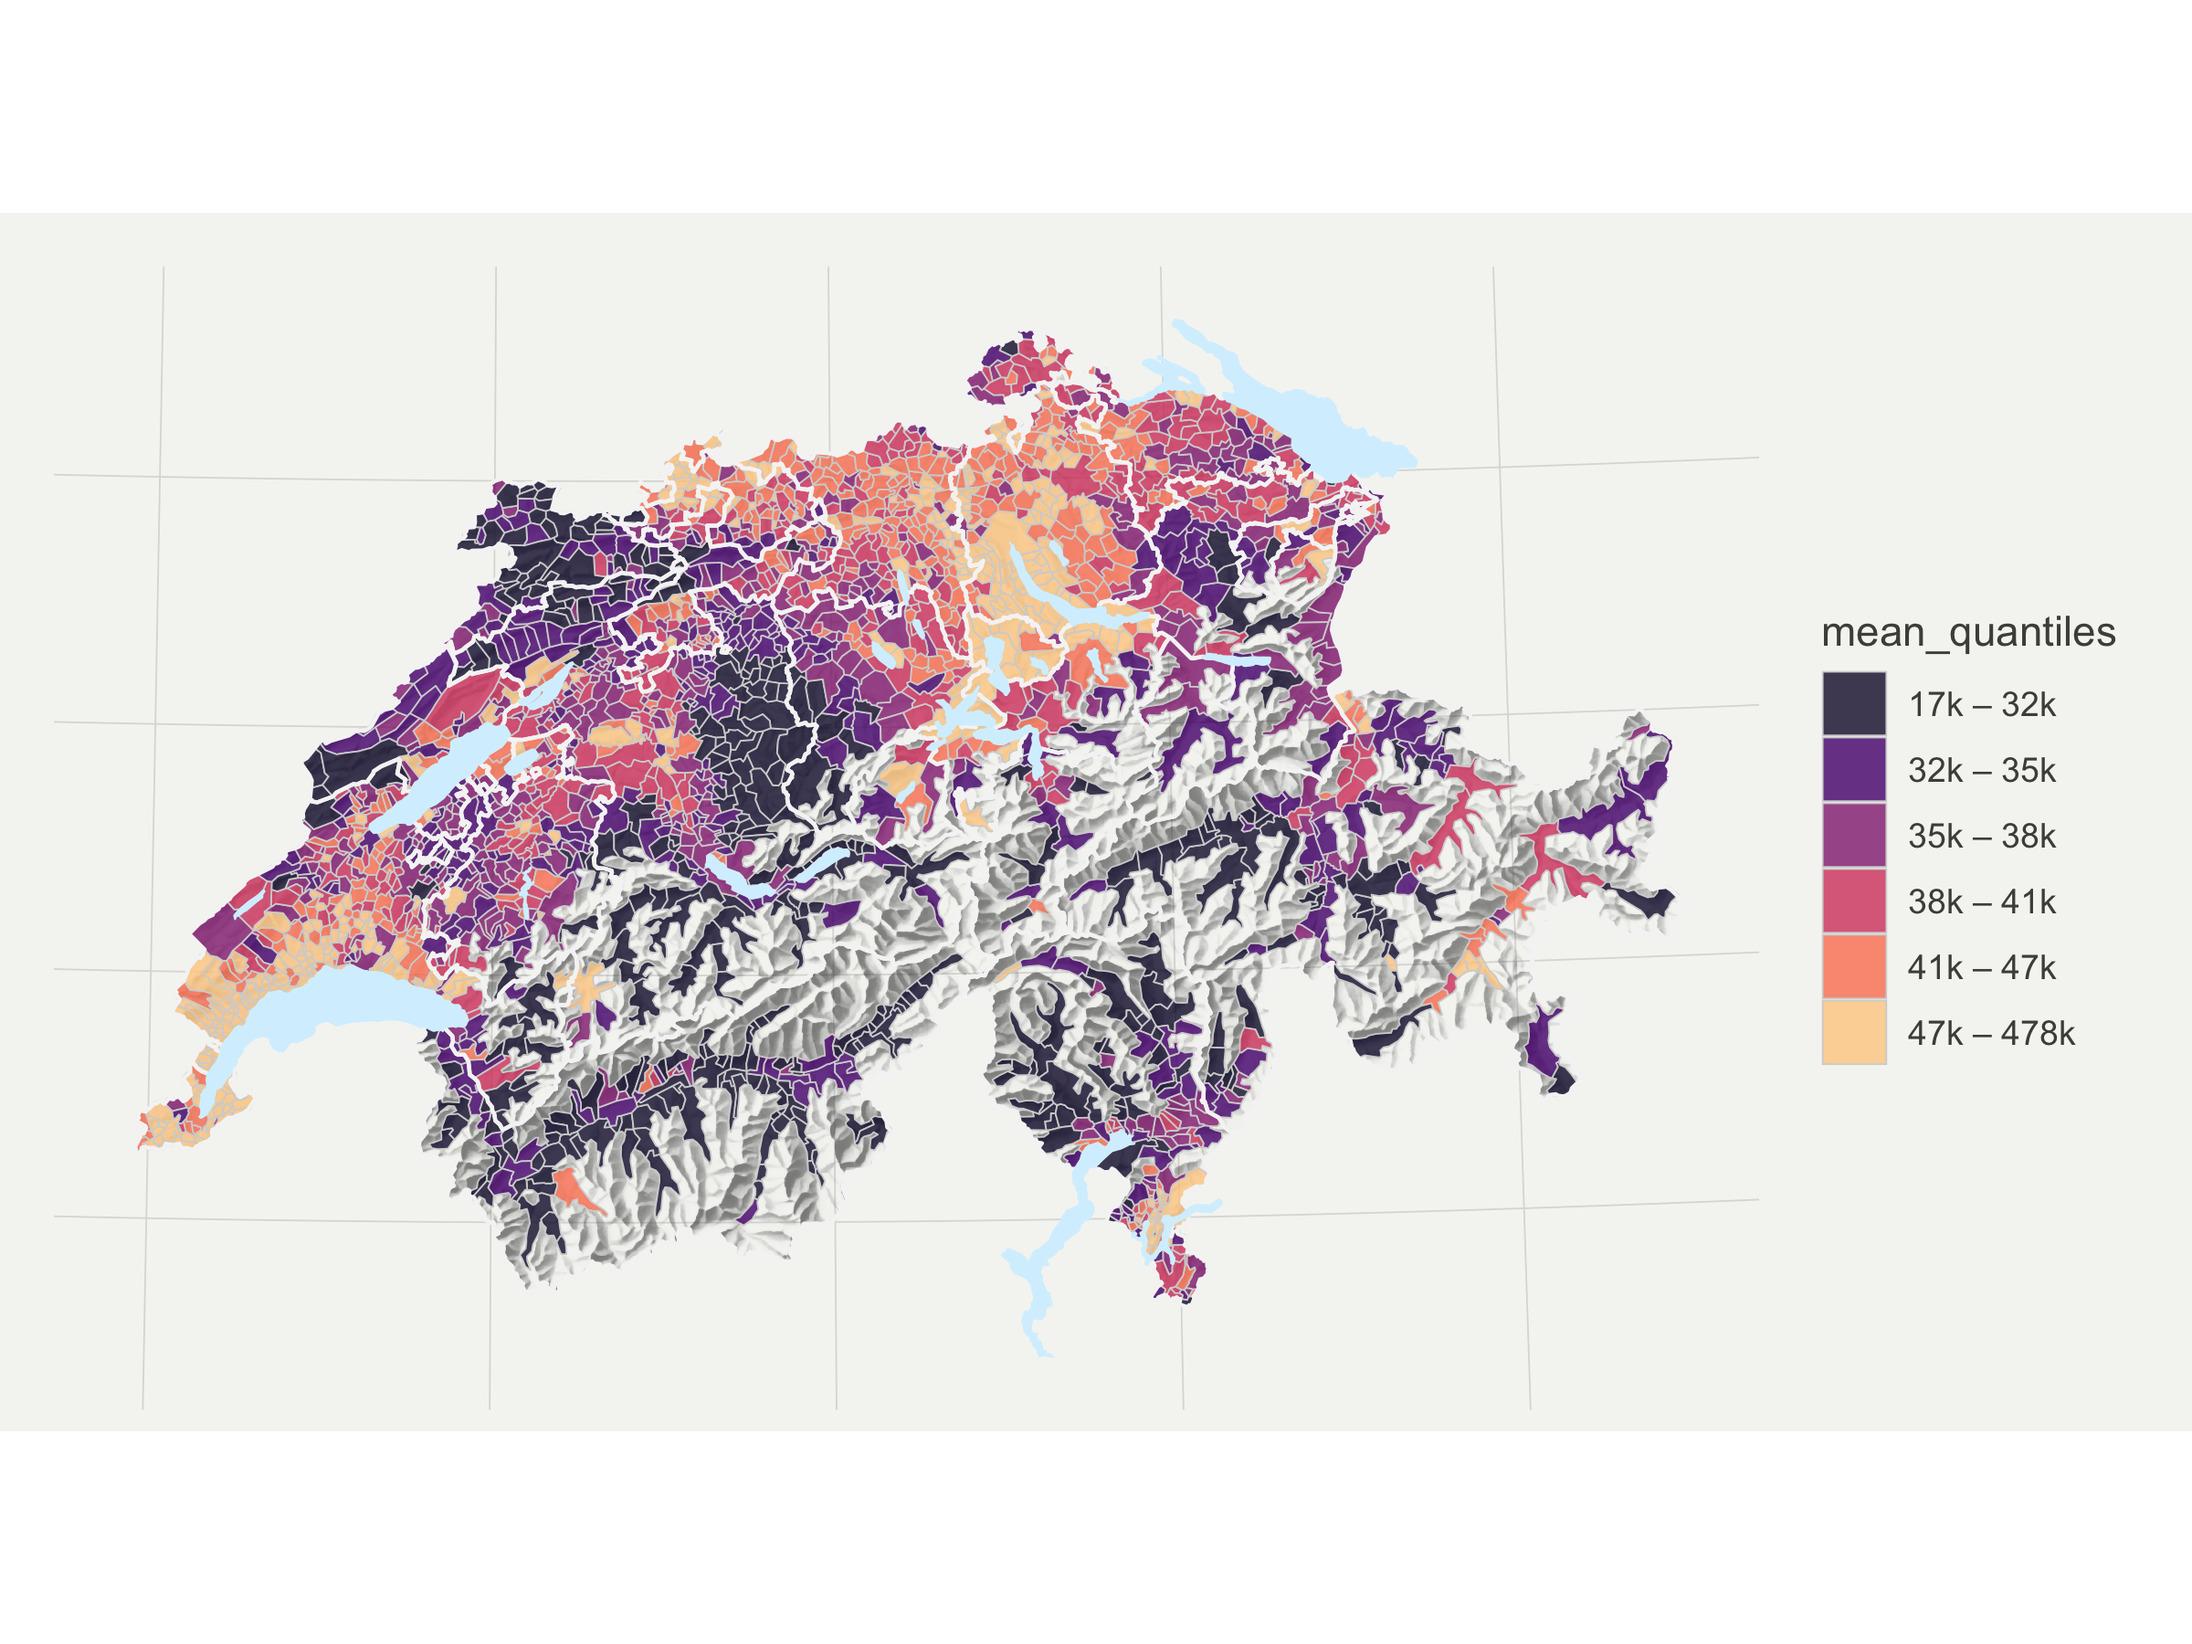
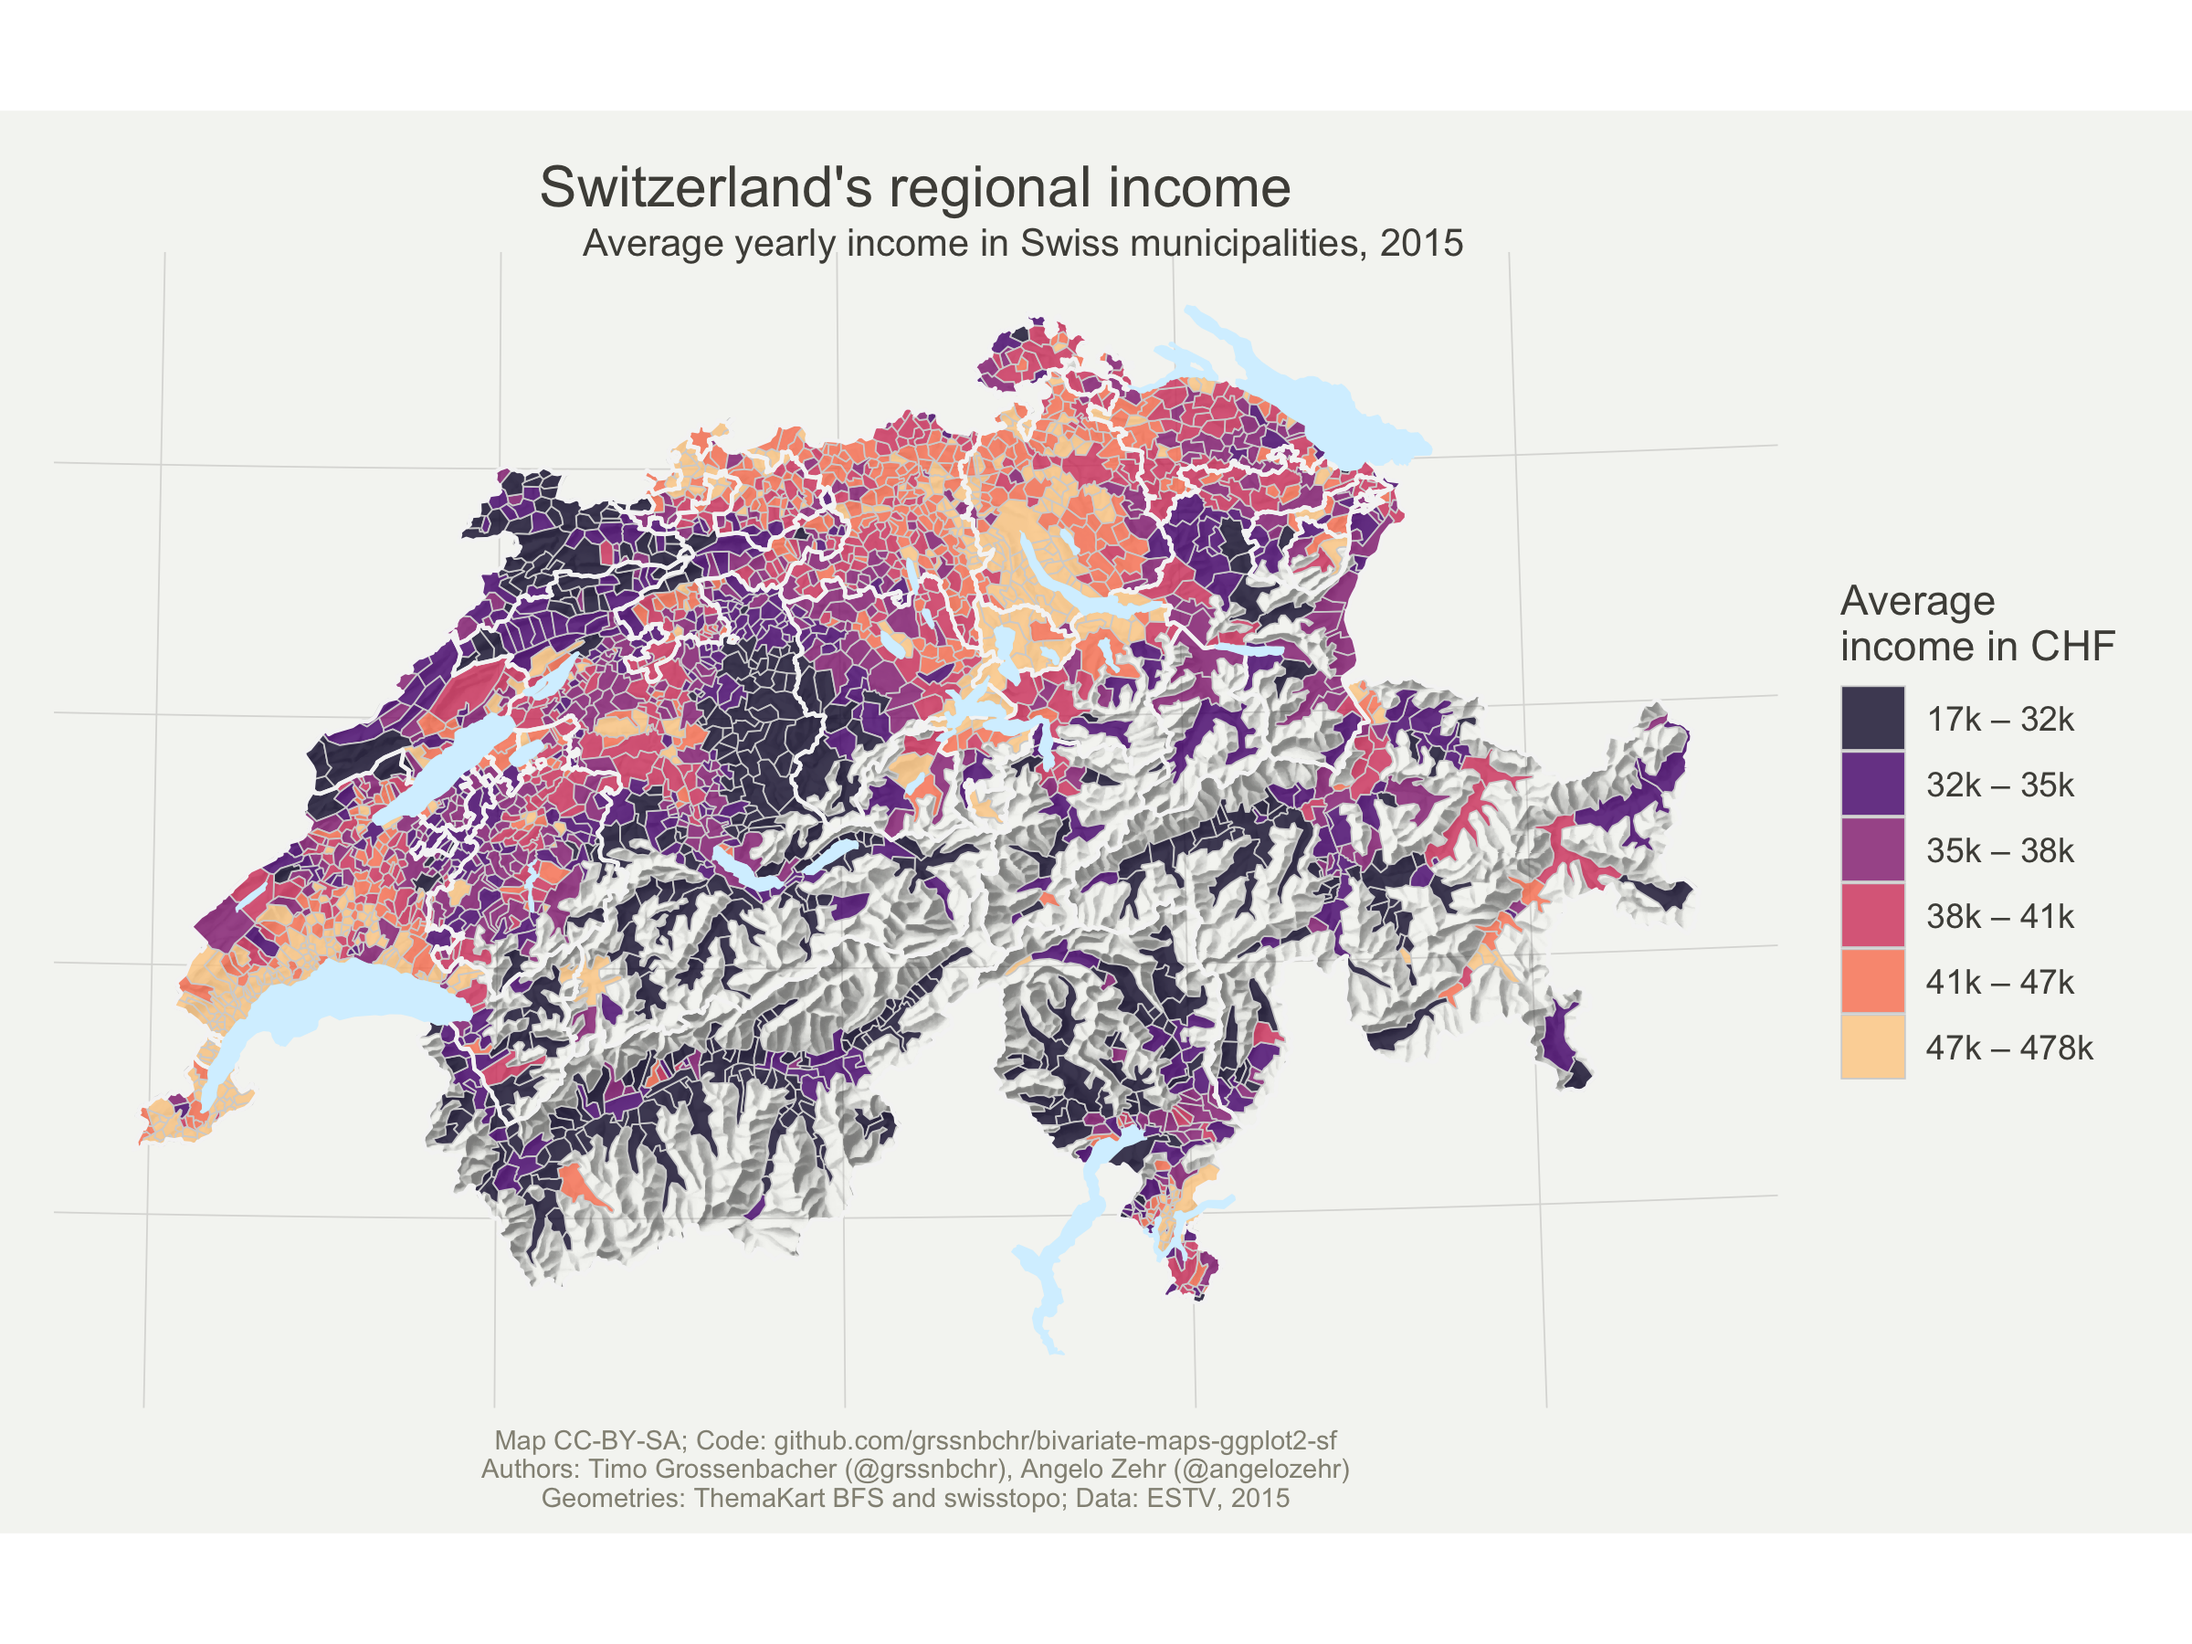
working on the prose

diff --git a/README.md b/README.md
@@ -1,5 +1,6 @@
 
 - [ggswitzerland](#ggswitzerland)
+- [Let’s go! Building {ggswitzerland}](#lets-go-building-ggswitzerland)
   - [`theme_map()`](#theme_map)
   - [data prep](#data-prep)
     - [we need to include it in the
@@ -8,9 +9,12 @@
   - [`geom_*()` and `stamp_*()` functions using
     `ggregions::write_*(ref_data = ?)`](#geom_-and-stamp_-functions-using-ggregionswrite_ref_data--)
 - [packaging](#packaging)
-- [Use ggswitzerland! A replication of Timo’s
-  work](#use-ggswitzerland-a-replication-of-timos-work)
-  - [A little more styling](#a-little-more-styling)
+- [Use ggswitzerland! A replication of Timo and Angelo’s
+  work](#use-ggswitzerland-a-replication-of-timo-and-angelos-work)
+  - [Data preparation (binning)](#data-preparation-binning)
+  - [Basic Vizzing](#basic-vizzing)
+  - [A little more styling and
+    labels.](#a-little-more-styling-and-labels)
 - [Bonus: {ggswitzerland} X
   {ggincerta}](#bonus-ggswitzerland-x-ggincerta)
 
@@ -18,34 +22,51 @@
 
 # ggswitzerland
 
-Is inspired and uses much of the code in ‘[Bivariate maps with ggplot2
-and
-sf](https://timogrossenbacher.ch/bivariate-maps-with-ggplot2-and-sf/)’
-with the source available in the
+What follows is inspired and uses much of the code in Timo Grossenbacher
+and Angelo Zehr’s ‘[Bivariate maps with ggplot2 and
+sf](https://timogrossenbacher.ch/bivariate-maps-with-ggplot2-and-sf/)’.
+The source for the blog post is available in the
 [repo](https://github.com/grssnbchr/bivariate-maps-ggplot2-sf?tab=readme-ov-file).
 
-The main goal is to be able to more succinctly create the following
-plot, using new layers (`geom_*()` and `stamp_*()` functions) that are
-defined in {ggswitzerland}. An original plot (not bivariate) from the
-blogpost:
+One of the plots, which is not actually a bivariate color plot so
+central to the post, is the target for a replication, and will informs
+what a minimal ggswitzerland might need in terms of functionality.
 
 ![](https://timogrossenbacher.ch/content/images/size/w1000/2023/07/bm-thematic-univariate-map-1.png)
-The novel functionality in {ggswitzerland} is `geom_muni()` which can be
-used to create a map from flat data (no boundary information). Creating
-functions like `geom_muni()` can be done easily using the {ggregions}
-package.
+
+{ggswitzerland}‘s `geom_*()`, `stamp_*()`, and `theme_*()` functions
+will allow us to *not only* ’write down’ this plot in more succinctly,
+but arguably also in a way that better matches how we think about how to
+construct the map.
+
+Specifically, we can use data that has geographic information, *but no
+boundary information*, to construct our plot. If we have a dataset with
+municipality names and income level, for example, we can specify it as
+follows:
 
 ``` r
-flat_income_data |> # no boundary data is included
+flat_income_data |> # data frame with 
   ggplot() +
   aes(muni_name = municipality,
       fill = income_levels) + 
   geom_muni()     # knows municipality boundaries
 ```
 
+Creating functions like `geom_muni()` can be done easily using the
+{ggregions} package. In the background, `geom_muni()` performs a join
+with geo-referenced data so that the flat data can be represented on the
+map.
+
 Annotation layers `stamp_relief()` (and alias `stamp_mountains()`) as
 well as `stamp_lake()` and `stamp_canton()` are also specified to allow
 the map to be fully reproduced.
+
+For ease and consistency, geom\_ and stamp\_ functions are created with
+‘utilities’ from the *ggregions* package.
+
+# Let’s go! Building {ggswitzerland}
+
+Now it’s time to craft some functions!
 
 ## `theme_map()`
 
@@ -234,7 +255,9 @@ devtools::check(".")
 devtools::install(".", upgrade = "never")
 ```
 
-# Use ggswitzerland! A replication of Timo’s work
+# Use ggswitzerland! A replication of Timo and Angelo’s work
+
+## Data preparation (binning)
 
 ``` r
 remove(list = ls())
@@ -296,6 +319,8 @@ data |> head()
 #> 6 Kappel am Albis         6 48833 0.484 47k – 478k
 ```
 
+## Basic Vizzing
+
 ``` r
 library(tidyverse)
 library(ggswitzerland)
@@ -313,7 +338,7 @@ data |>
 
 <img src="README_files/figure-gfm/unnamed-chunk-8-1.png" width="100%" />
 
-## A little more styling
+## A little more styling and labels.
 
 ``` r
 default_caption <- paste0("Map CC-BY-SA; Code: ",
@@ -337,14 +362,7 @@ data |>
   stamp_lake(fill = "#D6F1FF", color = "transparent") + 
   theme_map() + 
   scale_fill_viridis_d(begin = .1, end = .9,
-                       option = "magma")
-```
-
-<img src="README_files/figure-gfm/unnamed-chunk-10-1.png" width="100%" />
-
-``` r
-
-last_plot() +
+                       option = "magma") +
   labs(x = NULL,  y = NULL,
        fill = "Average\nincome in CHF",
        title = "Switzerland's regional income",
@@ -353,7 +371,7 @@ last_plot() +
        ) 
 ```
 
-<img src="README_files/figure-gfm/unnamed-chunk-10-2.png" width="100%" />
+<img src="README_files/figure-gfm/unnamed-chunk-10-1.png" width="100%" />
 
 Original:
 
